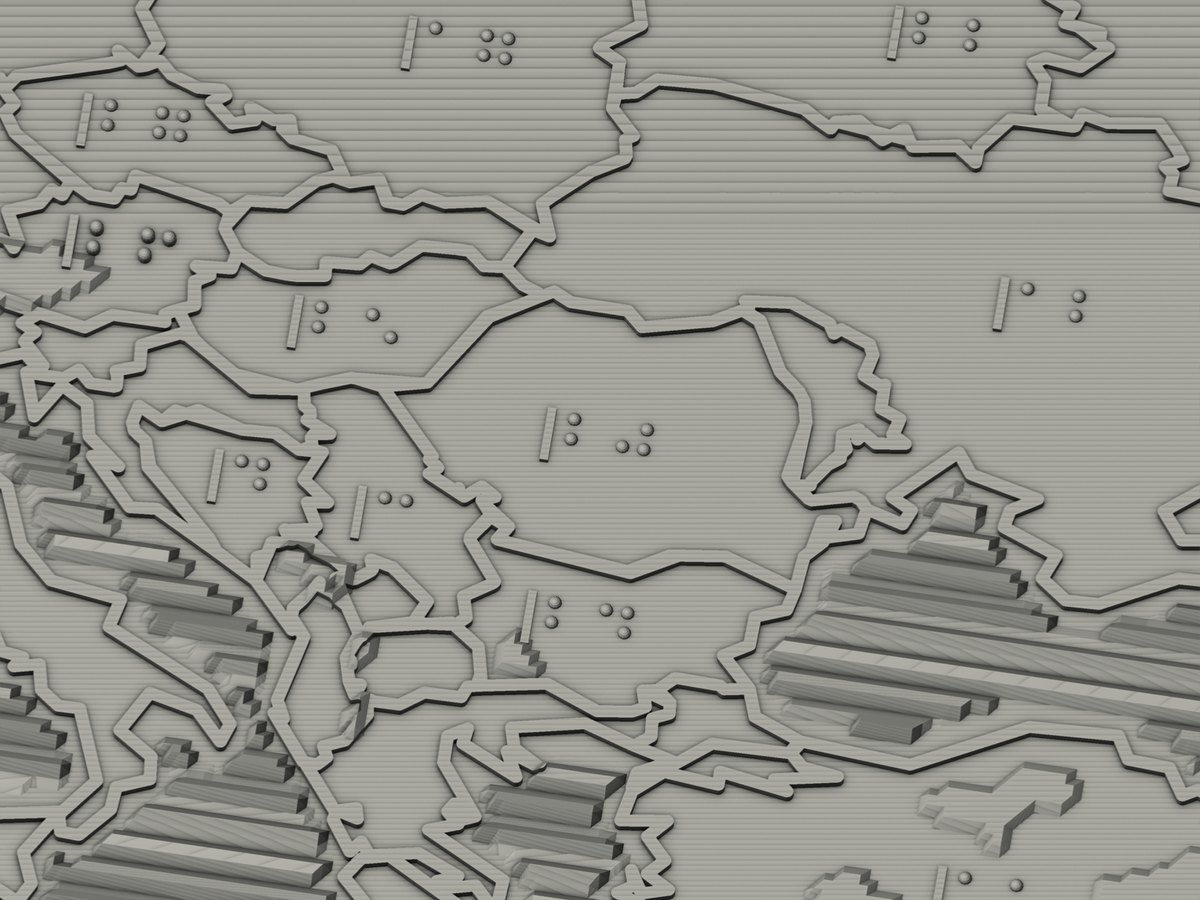
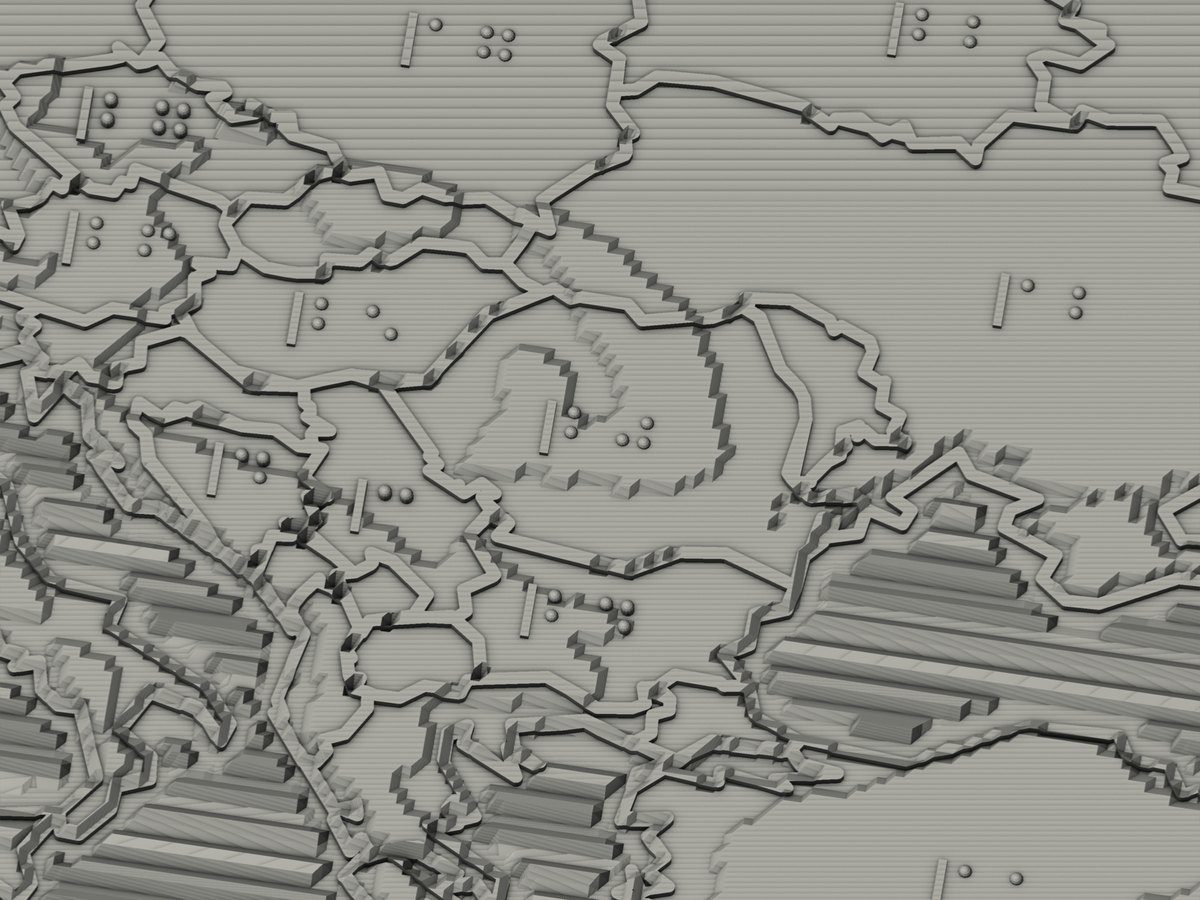
Match the README to the object: bands, sizes, waves, key convention
Every physical claim now matches what the code exports:
- terrain rows name the 500 m / 1500 m elevation bands and the guarantee
  that all land sits at least 1 mm above the sea
- the braille labels are described as what they are: digit cells a-j
  without the number sign - the space-saving map-key convention - resolved
  by the legend card, not full braille numbers
- map size 400x320 nominal, 398.9x318.8 as exported; cards 200x160 nominal,
  204x164 printed footprint including the dovetail tabs
- the sea is a grid-sampled sinusoidal swell up to 2 mm, not flat ridges
  every 4 mm
- dome height 0.8 mm is stated as a deliberate departure above the ~0.5 mm
  standard, not passed off as part of Marburg Medium
- project tree gains tools/ and functions/, SITE.md marks INFRA.md as
  local-only

Site renders regenerated from the new STLs - the mountains are visible in
every terrain shot now.

diff --git a/README.md b/README.md
@@ -26,7 +26,7 @@ screen, and both shaped the geometry this repository now generates:
 
 | What the first print got wrong | What the code does now |
 |---|---|
-| Country labels were raised Arabic numerals — legible to me, unreadable to him, so every number had to be read out loud by somebody else | Labels are braille numbers (`create_braille_number()` in `core/generate.py`), each with an anchor ridge on its left, so a single cell out on open ground still has a left edge and a baseline |
+| Country labels were raised Arabic numerals — legible to me, unreadable to him, so every number had to be read out loud by somebody else | Labels are braille keys (`create_braille_number()` in `core/generate.py`), each with an anchor ridge on its left, so a single cell out on open ground still has a left edge and a baseline. The keys are the digit cells a–j *without* the ⠼ number sign — the space-saving convention for map keys — and the legend card pairs every key with its country name |
 | Braille dots used the standard dimensions and printed as sharp points rather than domes, so a fingertip caught the tip and neighbouring dots blurred together | Every dot is a smooth dome on a buried skirt (`create_braille_dot()`): ⌀1.6 mm, 0.8 mm tall, Marburg Medium spacing — 2.5 mm between dots, 6 mm between cells |
 
 The photographs in this README are that first print. The renders are the files as
@@ -40,9 +40,9 @@ designed so a blind person can:
 | What | How it feels |
 |------|--------------|
 | Country borders | Raised ridge (1.2 mm) that follows the terrain under the finger |
-| Terrain | 4 tactile plateaus: sea / lowland / plateau / mountains (0/1/2/3 mm) |
+| Terrain | 4 tactile plateaus: sea / lowland / plateau / mountains (0/1/2/3 mm), cut at real 500 m and 1500 m elevation lines — all land sits at least 1 mm above the sea, so a coastline is always a step under the finger |
 | Sea | Wavy texture |
-| Country numbers | Braille number labels (Marburg Medium: ⌀1.6 mm dome dots, 2.5 mm dot pitch) with an anchor ridge that marks the cell frame |
+| Country numbers | Braille key labels (Marburg Medium: ⌀1.6 mm dome dots, 2.5 mm dot pitch) with an anchor ridge that marks the cell frame; keys are digit cells without the ⠼ sign, resolved by the legend card |
 | Legend | Braille country list + texture samples (sea, border, number key) |
 | Alphabet cards | Raised Latin letter next to its braille cell, for learning braille |
 
@@ -64,8 +64,8 @@ Serbian (Gajica braille, 30 letters including Č Ć Dž Đ Lj Nj Š Ž).
 |------|----------|
 | `tactile_map.stl` | The full 400×320 mm map in one piece |
 | `card_1.stl` … `card_4.stl` | The same map split into 4 puzzle cards |
-| `card_legend.stl` | Braille numbers → country names in English braille |
-| `card_legend_sr.stl` | Braille numbers → country names in Serbian braille |
+| `card_legend.stl` | Braille keys → country names in English braille |
+| `card_legend_sr.stl` | Braille keys → country names in Serbian braille |
 | `card_alphabet.stl` | English braille alphabet learning card (26 letters) |
 | `card_alphabet_sr.stl` | Serbian braille alphabet learning card (30 letters) |
 
@@ -180,6 +180,8 @@ worldbytouch/
 │   ├── countries/             # Downloaded border GeoJSONs
 │   └── output/                # Generated files (printready/, previews_v2/,
 │                              #   makerworld/)
+├── functions/api/             # Cloudflare Pages Function behind the site's contact form
+├── tools/stamp_css.py         # Cache-busting hash stamped into the CSS link on deploy
 ├── requirements.txt
 └── README.md
 ```
@@ -190,13 +192,13 @@ worldbytouch/
 
 | Parameter | Value |
 |-----------|-------|
-| Full map size | 400×320 mm |
-| Single card | 200×160 mm |
+| Full map size | 400×320 mm nominal (398.9×318.8 as exported — the plate follows the elevation raster's cell centres) |
+| Single card | 200×160 mm nominal; 204×164 mm printed footprint incl. dovetail tabs |
 | Base thickness | 6 mm |
-| Terrain plateaus | 0 / 1 / 2 / 3 mm (sea, lowland, plateau, mountains) |
+| Terrain plateaus | 0 / 1 / 2 / 3 mm (sea, lowland, plateau, mountains), banded at 0–500 / 500–1500 / >1500 m of real elevation |
 | Border ridge | +1.2 mm above local terrain, 1.5 mm wide |
-| Water waves | 2 mm high, every 4 mm |
-| Braille dots | Dome ⌀1.6 mm × 0.8 mm; 2.5 mm dot pitch, 6.0 mm cell pitch (Marburg Medium) |
+| Water waves | Sinusoidal swell up to 2 mm high, ~4 mm period (grid-sampled) |
+| Braille dots | ⌀1.6 mm domes; 2.5 mm dot pitch, 6.0 mm cell pitch (Marburg Medium spacing). Dome height 0.8 mm — above the ~0.5 mm standard, deliberately: at standard height on FDM the first reader lost the dots |
 | Label anchor ridge | 1.0 mm wide, full cell height, 1.4 mm clear of the dots |
 | Puzzle connectors | Dovetail tabs 8→13 mm wide × 4 × 3 mm, 0.5 mm clearance, drop-in from above |
 

diff --git a/docs/MAKERWORLD.md b/docs/MAKERWORLD.md
@@ -47,7 +47,7 @@ The frame runs from 5°E to 70°E and from 12°N to 55°N: Europe east of Italy 
 
 WHAT THE FINGERS FEEL
 • Country borders — a 1.2 mm ridge that rides on top of the local terrain, so you can trace a border continuously and still feel the relief on both sides of it
-• Terrain — 4 tactile plateaus: sea / lowland / plateau / mountains (0 / 1 / 2 / 3 mm). At 0.2 mm layer height each step is exactly 5 layers
+• Terrain — 4 tactile plateaus: sea / lowland / plateau / mountains (0 / 1 / 2 / 3 mm), banded at the real 500 m and 1500 m elevation lines, so all land sits at least 1 mm above the sea. At 0.2 mm layer height each step is exactly 5 layers
 • Sea — wavy texture, impossible to confuse with land
 • Country numbers — 27 countries carry a braille number at standard Marburg Medium spacing (rounded domes 1.6 mm across, 2.5 mm dot pitch, 6 mm cell pitch), placed at the most open point inside the country
 • An anchor ridge beside every number — a raised bar the height of the braille cell. An isolated cell on a map has no line, no neighbouring cells and no baseline, so there is nothing to tell a reader WHICH of the six dot positions is raised. The ridge marks the left edge and the top and bottom rows, and the ambiguity disappears

diff --git a/docs/SITE.md b/docs/SITE.md
@@ -1,7 +1,8 @@
 # worldbytouch.com
 
 Static site for World by Touch – tactile 3D-printed maps. Deployed on Cloudflare Pages.
-Accounts, domain, mail and what all of it costs: `docs/INFRA.md`.
+Accounts, domain, mail and what all of it costs: `docs/INFRA.md` (local only,
+gitignored — it holds account ids and is not in the repository).
 
 ```
 site/index.html      English
